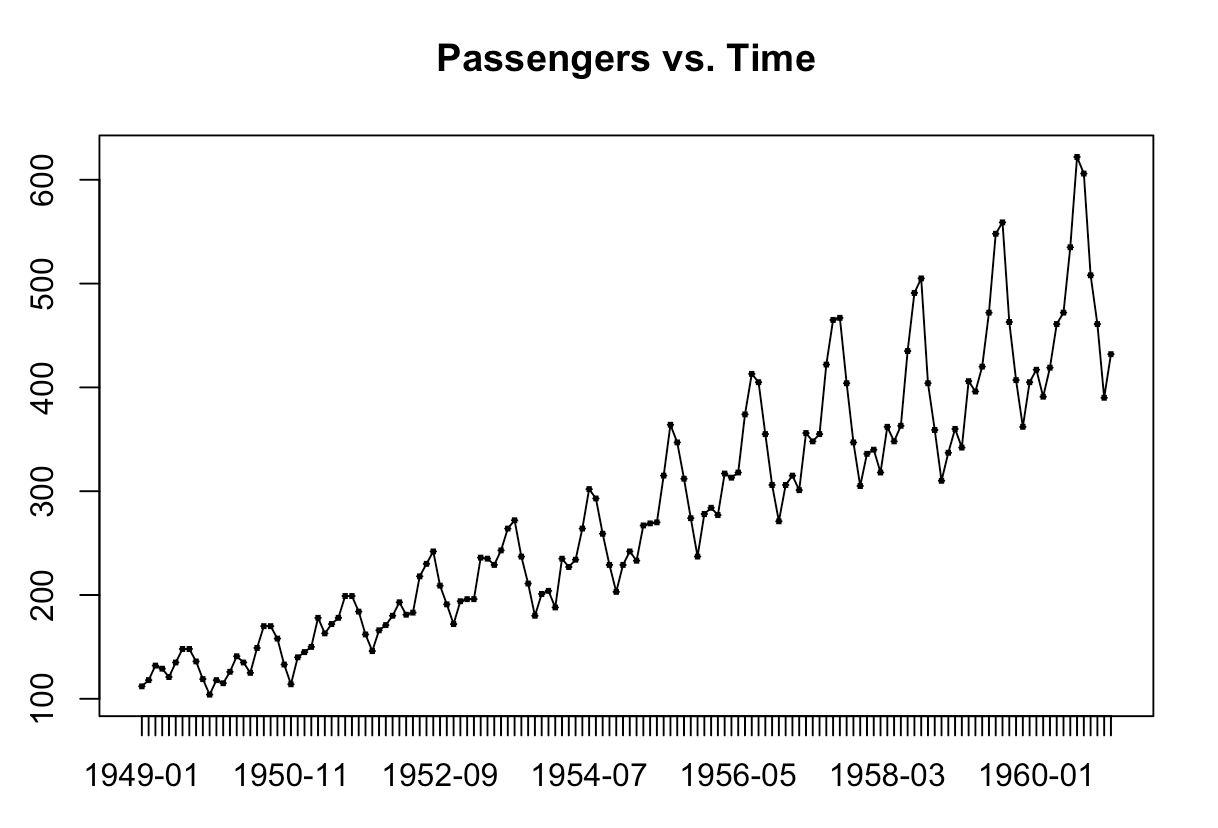
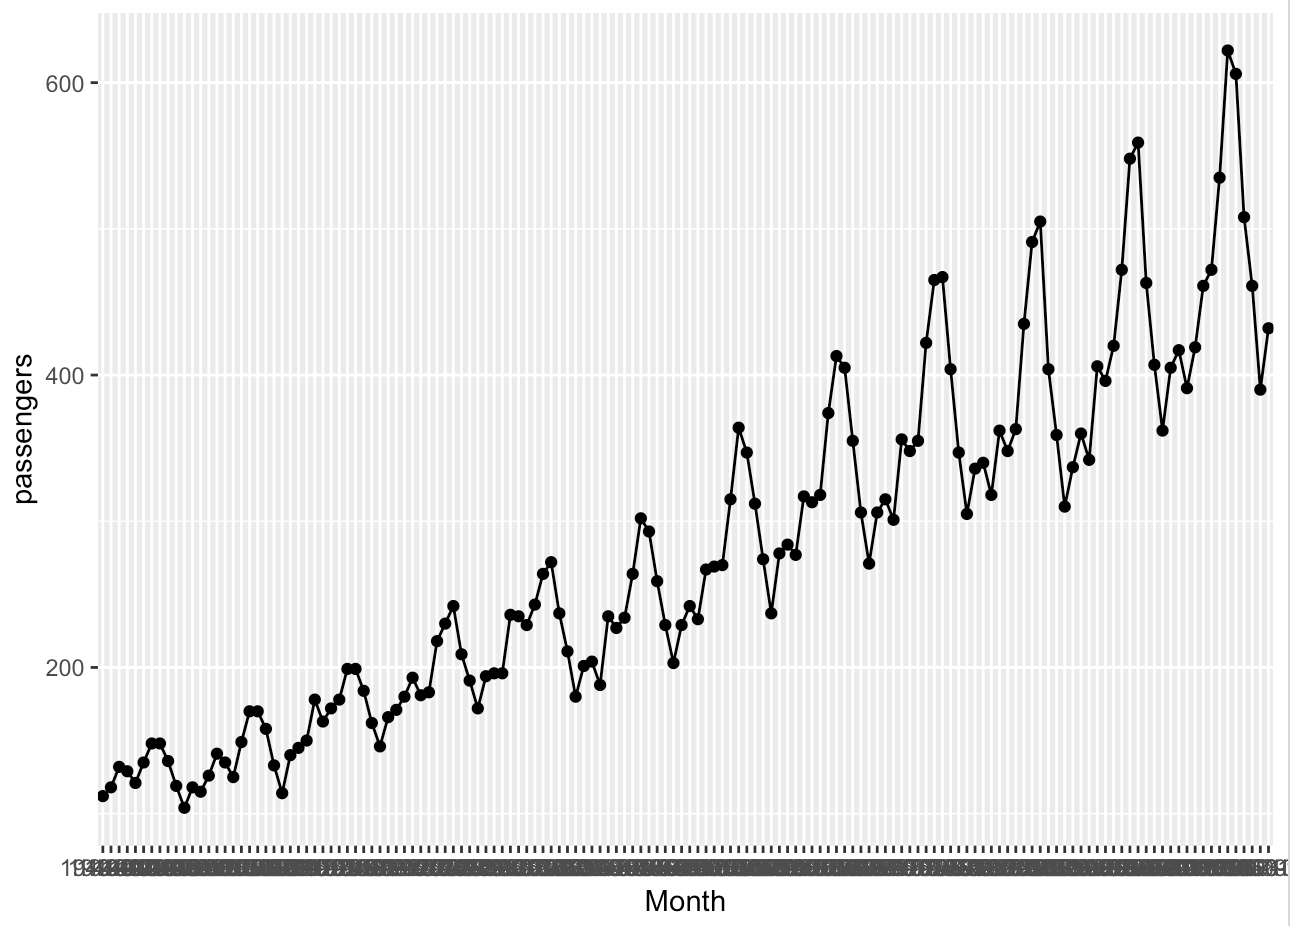
Update plotting, tidyverse

diff --git a/README.md b/README.md
@@ -133,11 +133,13 @@ r <- httr::GET("https://qrng.anu.edu.au/ran_hex.php")
 ## Plotting
 
 ```r
-x=data$Month
-y=data$passengers
-heading="Passengers vs. Time"
-plot(x, y, type="n", main=heading)
-lines(x, y, type="l") 
+## https://www.tidyverse.org
+##
+install.packages('tidyverse')
+
+ggplot2::ggplot(data=data.frame(data), ggplot2::aes(x=Month, y=passengers, group=1)) +
+  ggplot2::geom_line()+
+  ggplot2::geom_point()
 ```
 
 <p align="center">
